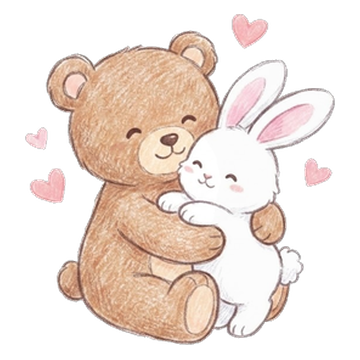
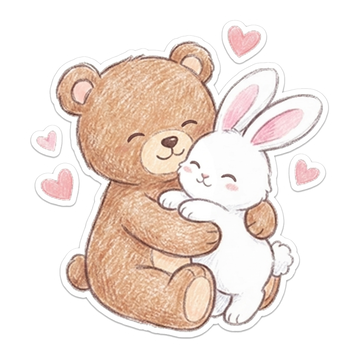
feat(sticker): 곰돌이 이모티콘 10종 — 한 장짜리 캐릭터를 세트로
LOVE_BEAR 한 장뿐이라 "캐릭터"라고 부르기 어려웠던 것을 비개구리와 같은 10종
세트로 만든다. 곰돌이는 손그림 스케치가 없어 sketch.mjs 를 못 쓰므로, 완성본 한
장을 참조 삼는 variants.mjs 로 뽑았다.

감정은 비개구리와 짝이 맞게 골랐다 — 트레이를 캐릭터별로 나눴을 때 두 줄이 세로로
대응돼야 "같은 감정, 다른 캐릭터"로 읽힌다. 씰룩씰룩(뒷모습)·흥 간다(혼자 떠남)만
두 마리 구도로 어색해서 부끄러워·미안해로 바꿨다.

LOVE_BEAR 도 같이 다시 뽑았다. 예전 그림에는 "사랑해"가 박혀 있었고(이모티콘에
글자를 두지 않기로 했다), 테두리를 비개구리와 맞추려면 같은 normalize 를 거쳐야
했는데 기존 파일은 이미 360·투명이라 그 경로를 태울 수 없었다. 코드는 그대로라
과거 말풍선은 영향받지 않는다 — PNG 만 갈아끼웠다.

두 장은 다시 뽑았다. 참조가 껴안은 구도라 감정이 얼굴에만 드러나는 장은 트레이
크기에서 LOVE_BEAR 와 구분이 안 됐다 — 하하하는 떨어져 서서 배를 잡고 웃는 자세로,
지쳤어는 땀방울을 넣고 따로 앉은 자세로 프롬프트를 고쳤다(하트도 뺐다. 하트가
떠 있는 "지쳤어"는 뜻이 어긋난다).

후처리는 normalize-stickers.mjs. 흰 토끼가 배경 제거에 먹히지 않는지가 관건이었는데,
토끼의 흰 몸이 제 윤곽선에 둘러싸여 가장자리에서 도달 불가라 그대로 살아남았다.
테두리는 하트까지 포함해 하나로 다시 그려져 비개구리와 같은 처리가 됐다.

StickerImageSyncTest 통과, typecheck 통과.

Changed region(s): [[0.0611, 0.0306, 0.9472, 0.9778]]

diff --git a/frontend/src/constants/stickerImages.ts b/frontend/src/constants/stickerImages.ts
@@ -25,7 +25,25 @@ export interface StickerImageDef {
 }
 
 export const STICKER_IMAGES: StickerImageDef[] = [
+  /*
+   * 곰돌이 10종 — 원래 LOVE_BEAR 한 장뿐이라 "캐릭터"라고 부르기 어려웠다. 손그림 스케치가
+   * 없는 캐릭터라 `variants.mjs` 로 완성본 한 장을 참조 삼아 감정 변주를 뽑았다
+   * (비개구리는 스케치가 있어 `sketch.mjs` 를 썼다).
+   *
+   * LOVE_BEAR 도 같이 다시 뽑았다 — 예전 그림에는 "사랑해"가 박혀 있었는데 이모티콘에
+   * 글자를 두지 않기로 했고, 테두리를 비개구리와 맞추려면 같은 normalize 를 거쳐야 했다.
+   * <b>코드는 그대로라 과거 말풍선은 영향받지 않는다</b>(PNG 만 갈아끼웠다).
+   */
   { code: 'LOVE_BEAR', label: '사랑해', source: require('../../assets/stickers/love_bear.png') },
+  { code: 'BEAR_EXCITED', label: '신났어', source: require('../../assets/stickers/bear_excited.png') },
+  { code: 'BEAR_LAUGH', label: '하하하', source: require('../../assets/stickers/bear_laugh.png') },
+  { code: 'BEAR_SHY', label: '부끄러워', source: require('../../assets/stickers/bear_shy.png') },
+  { code: 'BEAR_SULKY', label: '시무룩', source: require('../../assets/stickers/bear_sulky.png') },
+  { code: 'BEAR_ANGRY', label: '화났어', source: require('../../assets/stickers/bear_angry.png') },
+  { code: 'BEAR_SORRY', label: '미안해', source: require('../../assets/stickers/bear_sorry.png') },
+  { code: 'BEAR_CRYING', label: '엉엉', source: require('../../assets/stickers/bear_crying.png') },
+  { code: 'BEAR_TIRED', label: '지쳤어', source: require('../../assets/stickers/bear_tired.png') },
+  { code: 'BEAR_SLEEPY', label: '잘자', source: require('../../assets/stickers/bear_sleepy.png') },
   // 비개구리 10종 — 트레이 노출 순서는 쓰임새가 많은 것부터
   { code: 'BIGAE_LOVE', label: '좋아좋아', source: require('../../assets/stickers/bigae_love.png') },
   { code: 'BIGAE_EXCITED', label: '신났어', source: require('../../assets/stickers/bigae_excited.png') },

diff --git a/backend/src/main/java/com/fitto/chat/domain/StickerImage.java b/backend/src/main/java/com/fitto/chat/domain/StickerImage.java
@@ -23,7 +23,18 @@ import java.util.Optional;
  * 두 enum 만 보므로, 필드만 추가하면 서버가 막지 않는다.
  */
 public enum StickerImage {
+    // 곰돌이 10종 — LOVE_BEAR 한 장뿐이던 것을 variants.mjs 로 감정 변주를 뽑아 세트로 만들었다.
+    // LOVE_BEAR 도 같이 다시 그렸지만(글자 제거·테두리 통일) 코드는 그대로라 과거 메시지는 그대로 읽힌다.
     LOVE_BEAR("사랑해"),
+    BEAR_EXCITED("신났어"),
+    BEAR_LAUGH("하하하"),
+    BEAR_SHY("부끄러워"),
+    BEAR_SULKY("시무룩"),
+    BEAR_ANGRY("화났어"),
+    BEAR_SORRY("미안해"),
+    BEAR_CRYING("엉엉"),
+    BEAR_TIRED("지쳤어"),
+    BEAR_SLEEPY("잘자"),
 
     // 비개구리 10종 — 사용자 손그림 스케치를 스티커화한 자체 캐릭터(설계 메모 §15·§17)
     BIGAE_LOVE("좋아좋아"),
